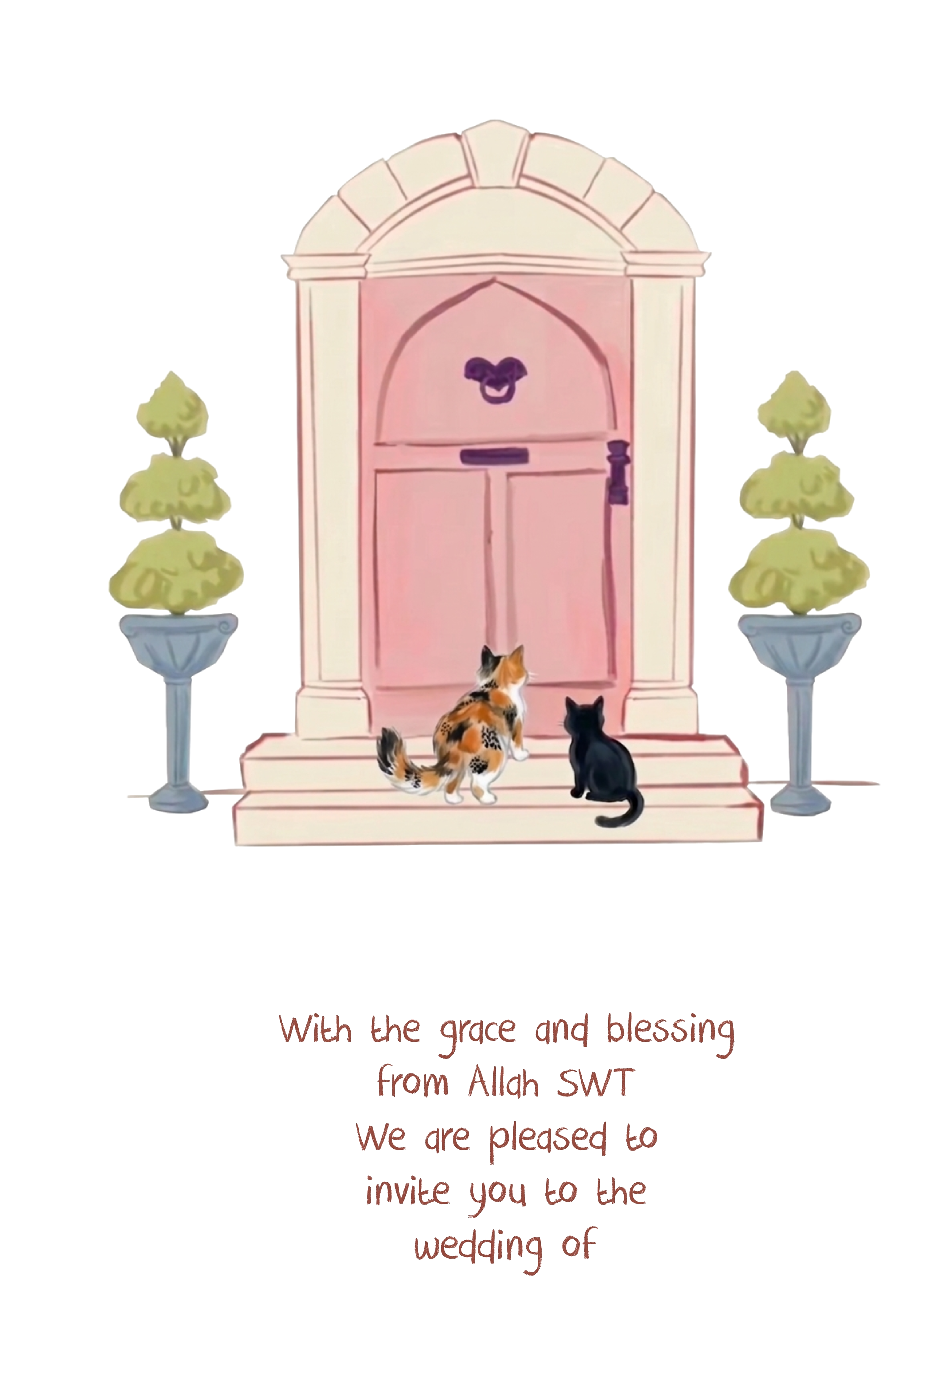
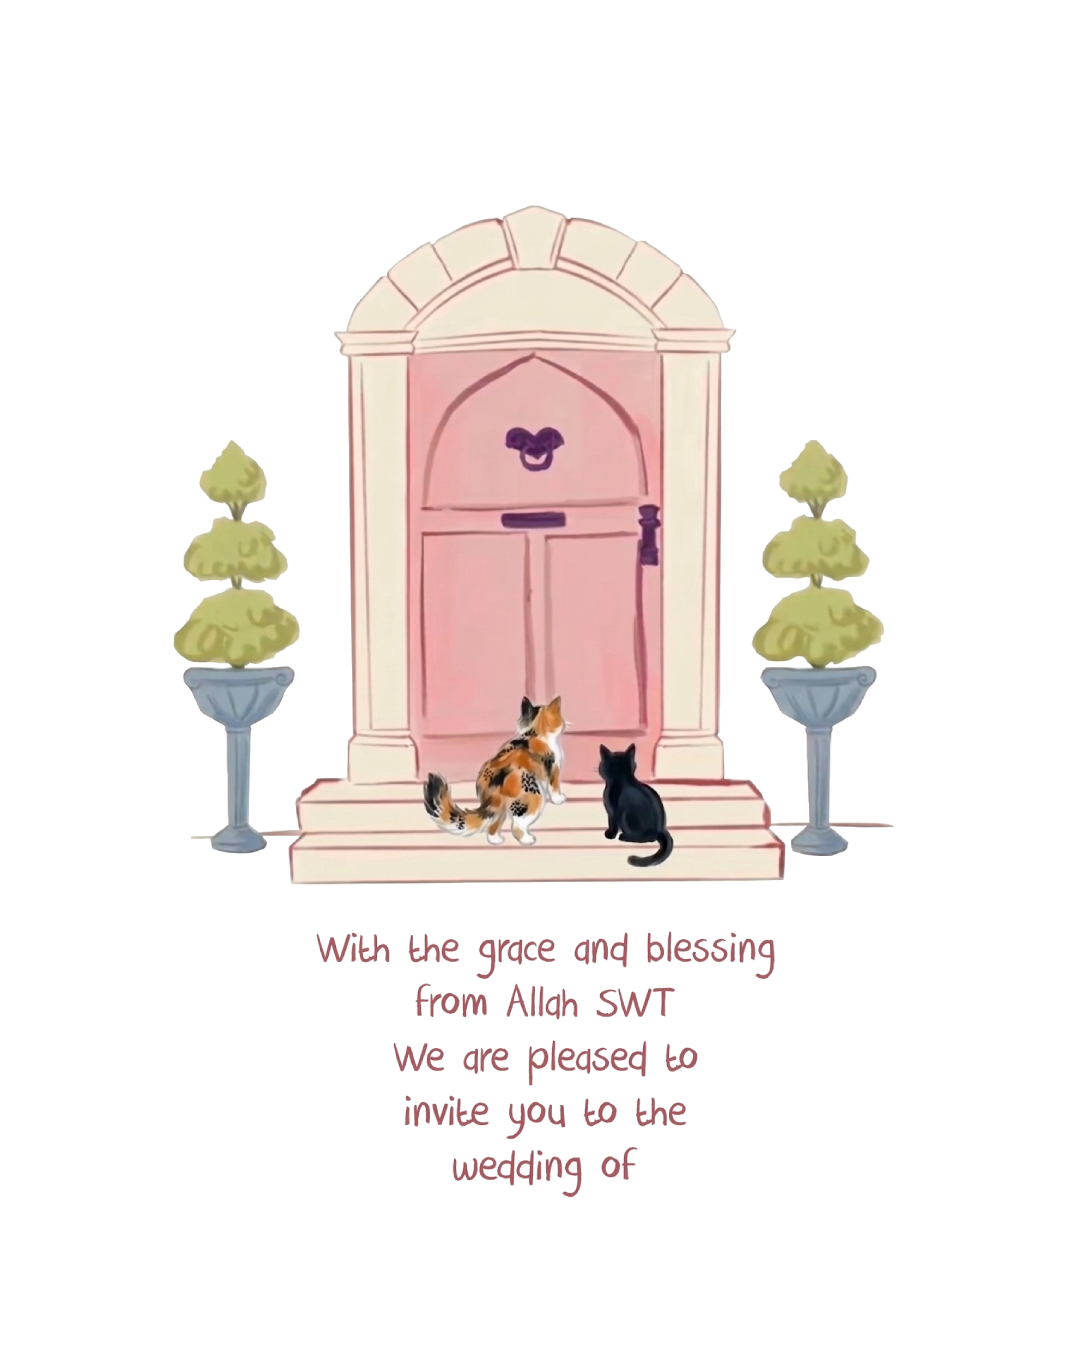
update

Changed region(s): [[0.0932, 0.0622, 0.9325, 0.6533], [0.2797, 0.6844, 0.7771, 0.9333]]

diff --git a/app/page.tsx b/app/page.tsx
@@ -414,7 +414,7 @@ const addToCalendar = (type: 'google' | 'apple') => {
           <img 
             src="/image/8.png" 
             alt="Main Invite"
-            className="w-full h-auto object-contain scale-100" 
+            className="w-full h-auto object-contain scale-90" 
           />
         </motion.div>
           </motion.div>
@@ -428,7 +428,7 @@ const addToCalendar = (type: 'google' | 'apple') => {
   <img 
     src="/image/9.png" 
     alt="Main Invite"
-    className="w-full h-auto object-contain scale-100" 
+    className="w-full h-auto object-contain scale-80" 
   />
 </motion.div>
 
@@ -444,7 +444,6 @@ const addToCalendar = (type: 'google' | 'apple') => {
     className="w-full h-auto object-contain scale-60" 
   />
 </motion.div>
-
 <motion.img 
   animate={{ scale: [1, 1.2, 1] }} 
   transition={{ repeat: Infinity, duration: 3 }} // Tambah ni supaya dia sentiasa berdenyut
@@ -453,12 +452,12 @@ const addToCalendar = (type: 'google' | 'apple') => {
         <motion.img 
   animate={{ scale: [1, 1.2, 1] }} 
   transition={{ repeat: Infinity, duration: 3 }} // Tambah ni supaya dia sentiasa berdenyut
-          src="/image/6.png" className="absolute bottom-[80%] left-[-5%] w-28 z-20 w-20"
+          src="/image/6.png" className="absolute bottom-[75%] left-[5%] w-28 z-20 w-20"
         />
         <motion.img 
   animate={{ scale: [1, 1.2, 1] }} 
   transition={{ repeat: Infinity, duration: 3 }} // Tambah ni supaya dia sentiasa berdenyut
-          src="/image/3.png" className="absolute bottom-[85%] left-[65%] w-28 z-20 w-20"
+          src="/image/3.png" className="absolute bottom-[75%] left-[80%] w-28 z-20 w-20"
         />
         <motion.img 
   animate={{ scale: [1, 1.2, 1] }} 
@@ -478,7 +477,7 @@ const addToCalendar = (type: 'google' | 'apple') => {
         <motion.img 
   animate={{ scale: [1, 1.2, 1] }} 
   transition={{ repeat: Infinity, duration: 3 }} // Tambah ni supaya dia sentiasa berdenyut
-          src="/image/12.png" className="absolute bottom-[85%] left-[40%] w-28 z-20 w-[70px]"
+          src="/image/12.png" className="absolute bottom-[80%] left-[45%] w-28 z-20 w-[70px]"
         />      
         </div>
       {/* Dekorasi tetap berada di dalam section supaya dia fade out sekali */}
@@ -502,7 +501,7 @@ const addToCalendar = (type: 'google' | 'apple') => {
   <img 
     src="/image/54.png" 
     alt="Main Invite"
-    className="w-full h-auto object-contain scale-110" 
+    className="w-full h-auto object-contain scale-130" 
   />
 </motion.div>
 
@@ -514,22 +513,22 @@ const addToCalendar = (type: 'google' | 'apple') => {
         <motion.img 
   animate={{ scale: [1, 1.2, 1] }} 
   transition={{ repeat: Infinity, duration: 3 }} // Tambah ni supaya dia sentiasa berdenyut
-          src="/image/6.png" className="absolute bottom-[80%] left-[-5%] w-28 z-20 w-20"
+          src="/image/6.png" className="absolute bottom-[75%] left-[5%] w-28 z-20 w-20"
         />
          <motion.img 
   animate={{ scale: [1, 1.2, 1] }} 
   transition={{ repeat: Infinity, duration: 3 }} // Tambah ni supaya dia sentiasa berdenyut
-          src="/image/4.png" className="absolute bottom-[10%] left-[60%] w-28 z-20 w-20"
+          src="/image/4.png" className="absolute bottom-[10%] left-[55%] w-28 z-20 w-20"
         />
          <motion.img 
   animate={{ scale: [1, 1.2, 1] }} 
   transition={{ repeat: Infinity, duration: 3 }} // Tambah ni supaya dia sentiasa berdenyut
-          src="/image/7.png" className="absolute bottom-[10%] left-[5%] w-28 z-20 w-30"
+          src="/image/7.png" className="absolute bottom-[15%] left-[15%] w-28 z-20 w-30"
         />
         <motion.img 
   animate={{ scale: [1, 1.2, 1] }} 
   transition={{ repeat: Infinity, duration: 3 }} // Tambah ni supaya dia sentiasa berdenyut
-          src="/image/16.png" className="absolute bottom-[88%] left-[40%] w-28 z-20 w-30"
+          src="/image/16.png" className="absolute bottom-[80%] left-[40%] w-28 z-20 w-30"
         />
         {/* <motion.img 
           src="/image/17.png" className="absolute bottom-[17%] left-[30%] w-28 z-20 w-60"
@@ -537,7 +536,7 @@ const addToCalendar = (type: 'google' | 'apple') => {
         <motion.img 
   animate={{ scale: [1, 1.2, 1] }} 
   transition={{ repeat: Infinity, duration: 3 }} // Tambah ni supaya dia sentiasa berdenyut
-          src="/image/3.png" className="absolute bottom-[25%] left-[10%] w-28 z-20 w-4"
+          src="/image/3.png" className="absolute bottom-[30%] left-[10%] w-28 z-20 w-4"
         />
         <motion.img 
   animate={{ scale: [1, 1.2, 1] }} 
@@ -562,32 +561,37 @@ const addToCalendar = (type: 'google' | 'apple') => {
   initial={{ scale: 0.8, opacity: 0 }}
   animate={{ scale: 1, opacity: 1 }}
   transition={{ duration: 1 }}
-  className="relative z-10 w-full mt-[-50px]" // <--- TUKAR NILAI NI (Lagi besar nilai, lagi tinggi dia naik)
+  className="relative z-10 w-full mt-[10px]" // <--- TUKAR NILAI NI (Lagi besar nilai, lagi tinggi dia naik)
 >
-  <img 
+  {/* <img 
     src="/image/53.png" 
     alt="Main Invite"
-    className="w-full h-auto object-contain scale-160" 
+    className="w-full h-auto object-contain scale-130" 
+  /> */}
+    <img 
+    src="/image/60.png" 
+    alt="Main Invite"
+    className="w-full h-auto object-contain scale-130" 
   />
   <motion.img 
   animate={{ scale: [1, 1.2, 1] }} 
   transition={{ repeat: Infinity, duration: 3 }} // Tambah ni supaya dia sentiasa berdenyut
-          src="/image/16.png" className="absolute bottom-[120%] left-[45%] w-28 z-20 w-[100px]"
+          src="/image/16.png" className="absolute bottom-[65%] left-[45%] w-28 z-20 w-[100px]"
         />
           <motion.img 
   animate={{ scale: [1, 1.2, 1] }} 
   transition={{ repeat: Infinity, duration: 3 }} // Tambah ni supaya dia sentiasa berdenyut
-          src="/image/3.png" className="absolute bottom-[110%] left-[5%] w-28 z-20 w-[100px]"
+          src="/image/3.png" className="absolute bottom-[60%] left-[10%] w-28 z-20 w-[100px]"
         />
-         <motion.img 
+         {/* <motion.img 
   animate={{ scale: [1, 1.2, 1] }} 
   transition={{ repeat: Infinity, duration: 3 }} // Tambah ni supaya dia sentiasa berdenyut
           src="/image/3.png" className="absolute bottom-[80%] left-[100%] w-28 z-20 w-[100px]"
-        />
+        /> */}
         <motion.img 
   animate={{ scale: [1, 1.2, 1] }} 
   transition={{ repeat: Infinity, duration: 3 }} // Tambah ni supaya dia sentiasa berdenyut
-          src="/image/6.png" className="absolute bottom-[60%] left-[10%] w-28 z-20 w-[100px]"
+          src="/image/6.png" className="absolute bottom-[60%] left-[70%] w-28 z-20 w-[100px]"
         />
         {/* <motion.img 
           src="/image/48.png" className="absolute bottom-[65%] left-[60%] w-28 z-20 w-[200px]"
@@ -618,7 +622,7 @@ const addToCalendar = (type: 'google' | 'apple') => {
   <img 
     src="/image/55.png" 
     alt="Main Invite"
-    className="w-full h-auto object-contain scale-100" 
+    className="w-full h-auto object-contain scale-90" 
         onClick={() => setShowCalendarModal(true)}
 
   />
@@ -632,7 +636,7 @@ const addToCalendar = (type: 'google' | 'apple') => {
   <img 
     src="/image/56.png" 
     alt="Main Invite"
-    className="w-full h-auto object-contain scale-80" 
+    className="w-full h-auto object-contain scale-60" 
   onClick={() => setIsOpen(true)}
   />
 </motion.div>
@@ -695,7 +699,7 @@ const addToCalendar = (type: 'google' | 'apple') => {
          <motion.img 
   animate={{ scale: [1, 1.2, 1] }} 
   transition={{ repeat: Infinity, duration: 3 }} // Tambah ni supaya dia sentiasa berdenyut
-          src="/image/7.png" className="absolute bottom-[10%] left-[10%] w-28 z-20 w-[100px]"
+          src="/image/7.png" className="absolute bottom-[15%] left-[10%] w-28 z-20 w-[100px]"
         />
                  {/* <motion.img 
   animate={{ scale: [1, 1.2, 1] }} 
@@ -1009,7 +1013,7 @@ const addToCalendar = (type: 'google' | 'apple') => {
   <img 
     src="/image/57.png" 
     alt="Main Invite"
-    className="w-full h-auto object-contain scale-100 " 
+    className="w-full h-auto object-contain scale-90" 
       onClick={() => setIsOpen1(true)}
   />
 </motion.div>
@@ -1017,11 +1021,11 @@ const addToCalendar = (type: 'google' | 'apple') => {
   initial={{ scale: 0.8, opacity: 0 }}
   animate={{ scale: 1, opacity: 1 }}
   transition={{ duration: 1 }}
-  className="relative z-10 w-full mt-[-10px]" // <--- TUKAR NILAI NI (Lagi besar nilai, lagi tinggi dia naik)
+  className="relative z-10 w-full mt-[-30px]" // <--- TUKAR NILAI NI (Lagi besar nilai, lagi tinggi dia naik)
 >
   <img 
     src="/image/21.png" 
-    className="w-full h-auto object-contain scale-100"     alt="Main Invite"
+    className="w-full h-auto object-contain scale-90"     alt="Main Invite"
 
   />
 </motion.div>
@@ -1029,17 +1033,17 @@ const addToCalendar = (type: 'google' | 'apple') => {
 <motion.img 
   animate={{ scale: [1, 1.2, 1] }} 
   transition={{ repeat: Infinity, duration: 3 }} // Tambah ni supaya dia sentiasa berdenyut
-          src="/image/3.png" className="absolute bottom-[65%] left-[70%] w-28 z-20 w-20"
+          src="/image/3.png" className="absolute bottom-[65%] left-[70%] w-28 z-20 w-[90px]"
         />
         <motion.img 
   animate={{ scale: [1, 1.2, 1] }} 
   transition={{ repeat: Infinity, duration: 3 }} // Tambah ni supaya dia sentiasa berdenyut
-          src="/image/3.png" className="absolute bottom-[83%] left-[65%] w-28 z-20 w-10"
+          src="/image/3.png" className="absolute bottom-[83%] left-[60%] w-28 z-20 w-[80px]"
         />
         <motion.img 
   animate={{ scale: [1, 1.2, 1] }} 
   transition={{ repeat: Infinity, duration: 3 }} // Tambah ni supaya dia sentiasa berdenyut
-          src="/image/3.png" className="absolute bottom-[70%] left-[10%] w-28 z-20 w-10"
+          src="/image/3.png" className="absolute bottom-[35%] left-[10%] w-28 z-20 w-[100px]"
         />
         {/* <motion.img 
   animate={{ scale: [1, 1.2, 1] }} 
@@ -1063,7 +1067,7 @@ const addToCalendar = (type: 'google' | 'apple') => {
         <motion.img 
   animate={{ scale: [1, 1.2, 1] }} 
   transition={{ repeat: Infinity, duration: 3 }} // Tambah ni supaya dia sentiasa berdenyut
-          src="/image/20.png" className="absolute bottom-[90%] left-[25%] w-28 z-20 w-[50px]"
+          src="/image/20.png" className="absolute bottom-[80%] left-[25%] w-28 z-20 w-[50px]"
         />
              {/* <motion.img 
           src="/image/46.png" className="absolute bottom-[45%] left-[10%] w-28 z-20 w-[400px]"
@@ -1092,12 +1096,12 @@ const addToCalendar = (type: 'google' | 'apple') => {
   initial={{ scale: 0.8, opacity: 0 }}
   animate={{ scale: 1, opacity: 1 }}
   transition={{ duration: 1 }}
-  className="flex justify-center z-10 w-full mt-[-150px] ml-1" // <--- TUKAR NILAI NI (Lagi besar nilai, lagi tinggi dia naik)
+  className="flex justify-center z-10 w-full mt-[-100px] ml-1" // <--- TUKAR NILAI NI (Lagi besar nilai, lagi tinggi dia naik)
 >
   <img 
-    src="/image/58.png" 
+    src="/image/59.png" 
     alt="Main Invite"
-    className="w-full h-auto object-contain scale-105" 
+    className="w-full h-auto object-contain scale-100" 
   />
 </motion.div>
  {/* <motion.img 
@@ -1138,22 +1142,22 @@ const addToCalendar = (type: 'google' | 'apple') => {
         <motion.img 
           animate={{ scale: [1, 1.2, 1] }} 
   transition={{ repeat: Infinity, duration: 3 }} // Tambah ni supaya dia sentiasa berdenyut
-          src="/image/3.png" className="absolute  bottom-[40%] left-[75%] w-28 z-20 w-[100px]"
+          src="/image/3.png" className="absolute  bottom-[35%] left-[85%] w-28 z-20 w-[90px]"
         />
         <motion.img 
           animate={{ scale: [1, 1.2, 1] }} 
   transition={{ repeat: Infinity, duration: 3 }} // Tambah ni supaya dia sentiasa berdenyut
-          src="/image/6.png" className="absolute bottom-[15%] left-[40%] w-28 z-20 w-[100px]"
+          src="/image/6.png" className="absolute bottom-[25%] left-[30%] w-28 z-20 w-[100px]"
         />
         <motion.img 
           animate={{ scale: [1, 1.2, 1] }} 
   transition={{ repeat: Infinity, duration: 3 }} // Tambah ni supaya dia sentiasa berdenyut
-          src="/image/3.png" className="absolute bottom-[80%] left-[45%] w-28 z-20 w-[100px]"
+          src="/image/3.png" className="absolute bottom-[75%] left-[40%] w-28 z-20 w-[100px]"
         />
         <motion.img 
           animate={{ scale: [1, 1.2, 1] }} 
   transition={{ repeat: Infinity, duration: 3 }} // Tambah ni supaya dia sentiasa berdenyut
-          src="/image/12.png" className="absolute bottom-[40%] left-[1%] w-28 z-20 w-[70px]"
+          src="/image/12.png" className="absolute bottom-[50%] left-[1%] w-28 z-20 w-[70px]"
         />
          {/* <motion.img 
           animate={{ scale: [1, 1.2, 1] }} 
@@ -1335,15 +1339,21 @@ layoutId={`card-${item.id}`} // Unique layoutId
 {!isCoverOpen&& !isOpen && !selectedWish&& !isOpen1&&!selectedItem&&!showCalendarModal&& (
   <>
        <nav className="fixed bottom-15 left-1/2 -translate-x-1/2 flex items-center p-1.5 bg-white/40 backdrop-blur-2xl border border-white/60 rounded-full shadow-[0_20px_50px_rgba(214,199,181,0.2)] z-[200] pointer-events-auto max-w-[90vw] overflow-x-auto scrollbar-hide">
-  <button
-    onClick={handleRestart}
-    className="ml-1 p-2.5 rounded-full text-[#A39584] hover:text-[#4A443F] transition-all group flex-shrink-0"
-  >
-    <RotateCcw 
-      size={16} 
-      className="group-hover:rotate-180 transition-transform duration-500"
-    />
-  </button>
+<button
+  onClick={handleRestart}
+  className="
+    ml-1 p-2.5 rounded-full text-[#A39584] 
+    transition-all duration-500 group flex-shrink-0
+    hover:bg-gradient-to-tr hover:from-[#D6C7B5]/30 hover:to-white
+    hover:shadow-[0_0_15px_rgba(214,199,181,0.5)]
+    hover:scale-110
+  "
+>
+  <RotateCcw 
+    size={16} 
+    className="group-hover:animate-spin-slow transition-all duration-500"
+  />
+</button>
   
   <div className="flex items-center gap-1"> {/* Tambah div wrapper untuk list button */}
     {[
